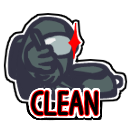
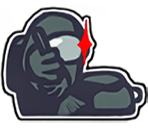
Use AssetBundles

diff --git a/LaunchpadReloaded/API/Hud/CustomActionButton.cs b/LaunchpadReloaded/API/Hud/CustomActionButton.cs
@@ -1,4 +1,5 @@
-using UnityEngine;
+using Reactor.Utilities.Extensions;
+using UnityEngine;
 using UnityEngine.Events;
 
 namespace LaunchpadReloaded.API.Hud;
@@ -9,7 +10,7 @@ public abstract class CustomActionButton
     public abstract float Cooldown { get; }
     public abstract float EffectDuration { get; }
     public abstract int MaxUses { get; }
-    public abstract Sprite Sprite { get; }
+    public abstract string SpritePath { get; }
     private bool HasEffect => EffectDuration > 0;
     private bool LimitedUses => MaxUses > 0;
     
@@ -23,17 +24,14 @@ public abstract class CustomActionButton
         if (_button) return;
 
         _usesLeft = MaxUses;
-        _timer = Cooldown;
+        _timer = 0;
         _effectActive = false;
         
         _button = Object.Instantiate(HudManager.Instance.AbilityButton, parent);
         _button.name = Name + "Button";
         _button.OverrideText(Name);
         
-        if (Sprite != null)
-        {
-            _button.graphic.sprite = Sprite;
-        }
+        _button.graphic.sprite = LaunchpadReloadedPlugin.Bundle.LoadAsset<Sprite>(SpritePath);
 
         _button.SetUsesRemaining(MaxUses);
         if (MaxUses <= 0)
@@ -55,7 +53,16 @@ public abstract class CustomActionButton
     {
         return _timer <= 0 && !_effectActive;
     }
-    
+
+    public void OverrideSprite(string path)
+    {
+        _button.graphic.sprite = LaunchpadReloadedPlugin.Bundle.LoadAsset<Sprite>(path);
+    }
+
+    public void OverrideName(string name)
+    {
+        _button.OverrideText(name);
+    }
     
     public virtual void SetActive(bool visible, RoleBehaviour role)
     {
@@ -64,7 +71,7 @@ public abstract class CustomActionButton
     
     public virtual void Update(PlayerControl playerControl)
     {
-        if (_timer > 0)
+        if (_timer >= 0)
         {
             _timer -= Time.deltaTime;
         }

diff --git a/LaunchpadReloaded/LaunchpadReloadedPlugin.cs b/LaunchpadReloaded/LaunchpadReloadedPlugin.cs
@@ -8,6 +8,9 @@ using LaunchpadReloaded.Roles;
 using Reactor;
 using Reactor.Networking;
 using Reactor.Networking.Attributes;
+using Reactor.Utilities;
+using Reactor.Utilities.Extensions;
+using UnityEngine;
 
 namespace LaunchpadReloaded;
 
@@ -19,9 +22,13 @@ public partial class LaunchpadReloadedPlugin : BasePlugin
 {
     public Harmony Harmony { get; } = new(Id);
 
+    public static AssetBundle Bundle;
+    
     public override void Load()
     {
         Harmony.PatchAll();
+
+        Bundle = AssetBundleManager.Load("assets");
         
         // TODO: CREATE ATTRIBUTE FOR THIS VVV
         CustomRoleManager.RegisterRole(typeof(CaptainRole));
@@ -29,6 +36,8 @@ public partial class LaunchpadReloadedPlugin : BasePlugin
         CustomButtonManager.RegisterButton(typeof(CallButton));
         CustomButtonManager.RegisterButton(typeof(ZoomButton));
         CustomButtonManager.RegisterButton(typeof(CleanButton));
+        CustomButtonManager.RegisterButton(typeof(DragButton));
+        CustomButtonManager.RegisterButton(typeof(ReviveButton));
         Config.Save();
     }
 

diff --git a/LaunchpadReloaded/Buttons/DragButton.cs b/LaunchpadReloaded/Buttons/DragButton.cs
@@ -1,0 +1,29 @@
+using LaunchpadReloaded.API.Hud;
+
+namespace LaunchpadReloaded.Buttons;
+
+public class DragButton : CustomActionButton
+{
+    public override string Name => "DRAG";
+    public override float Cooldown => 0;
+    public override float EffectDuration => 0;
+    public override int MaxUses => 0;
+    public override string SpritePath => "Drag.png";
+
+    private bool _isDragging;
+    
+    protected override void OnClick()
+    {
+        _isDragging = !_isDragging;
+        if (_isDragging)
+        {
+            OverrideName("DROP");
+            OverrideSprite("Drop.png");
+        }
+        else
+        {
+            OverrideName("DRAG");
+            OverrideSprite("Drag.png");
+        }
+    }
+}

diff --git a/LaunchpadReloaded/Buttons/CallButton.cs b/LaunchpadReloaded/Buttons/CallButton.cs
@@ -1,17 +1,18 @@
 using LaunchpadReloaded.API.Hud;
 using LaunchpadReloaded.API.Utilities;
 using LaunchpadReloaded.Roles;
+using Reactor.Utilities;
 using UnityEngine;
 
 namespace LaunchpadReloaded.Buttons;
 
 public class CallButton : CustomActionButton
 {
-    public override string Name => "";
+    public override string Name => "CALL";
     public override float Cooldown => 5;
     public override float EffectDuration => 0;
     public override int MaxUses => 3;
-    public override Sprite Sprite => SpriteTools.LoadSpriteFromPath("LaunchpadReloaded.Resources.CallMeeting.png");
+    public override string SpritePath => "CallMeeting.png";
     
     public override bool Enabled(RoleBehaviour role)
     {

diff --git a/LaunchpadReloaded/Buttons/ZoomButton.cs b/LaunchpadReloaded/Buttons/ZoomButton.cs
@@ -9,11 +9,11 @@ namespace LaunchpadReloaded.Buttons;
 
 public class ZoomButton : CustomActionButton
 {
-    public override string Name => "";
+    public override string Name => "ZOOM";
     public override float Cooldown => 10;
     public override float EffectDuration => 5;
     public override int MaxUses => 0;
-    public override Sprite Sprite => SpriteTools.LoadSpriteFromPath("LaunchpadReloaded.Resources.Zoom.png");
+    public override string SpritePath => "Zoom.png";
     
     public override bool Enabled(RoleBehaviour role)
     {

diff --git a/LaunchpadReloaded/Buttons/CleanButton.cs b/LaunchpadReloaded/Buttons/CleanButton.cs
@@ -8,11 +8,11 @@ namespace LaunchpadReloaded.Buttons;
 
 public class CleanButton : CustomActionButton
 {
-    public override string Name => "";
+    public override string Name => "CLEAN";
     public override float Cooldown => 5;
     public override float EffectDuration => 0;
     public override int MaxUses => 0;
-    public override Sprite Sprite => SpriteTools.LoadSpriteFromPath("LaunchpadReloaded.Resources.Clean.png");
+    public override string SpritePath => "Clean.png";
 
     private DeadBody _target;
 

diff --git a/LaunchpadReloaded/Buttons/ReviveButton.cs b/LaunchpadReloaded/Buttons/ReviveButton.cs
@@ -1,0 +1,15 @@
+using LaunchpadReloaded.API.Hud;
+
+namespace LaunchpadReloaded.Buttons;
+
+public class ReviveButton : CustomActionButton
+{
+    public override string Name => "REVIVE";
+    public override float Cooldown => 10;
+    public override float EffectDuration => 0;
+    public override int MaxUses => 5;
+    public override string SpritePath => "Revive.png";
+    protected override void OnClick()
+    {
+    }
+}
